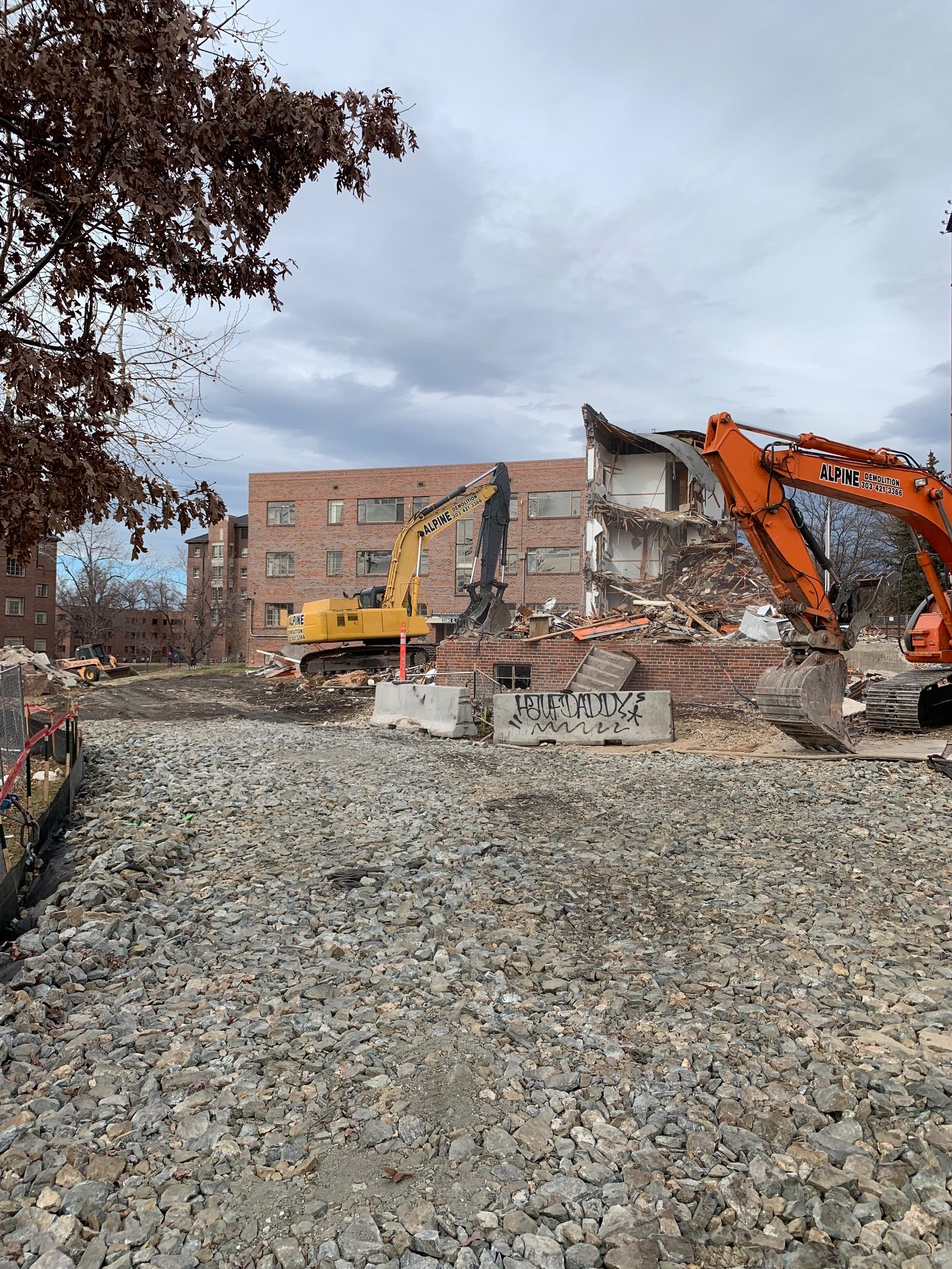
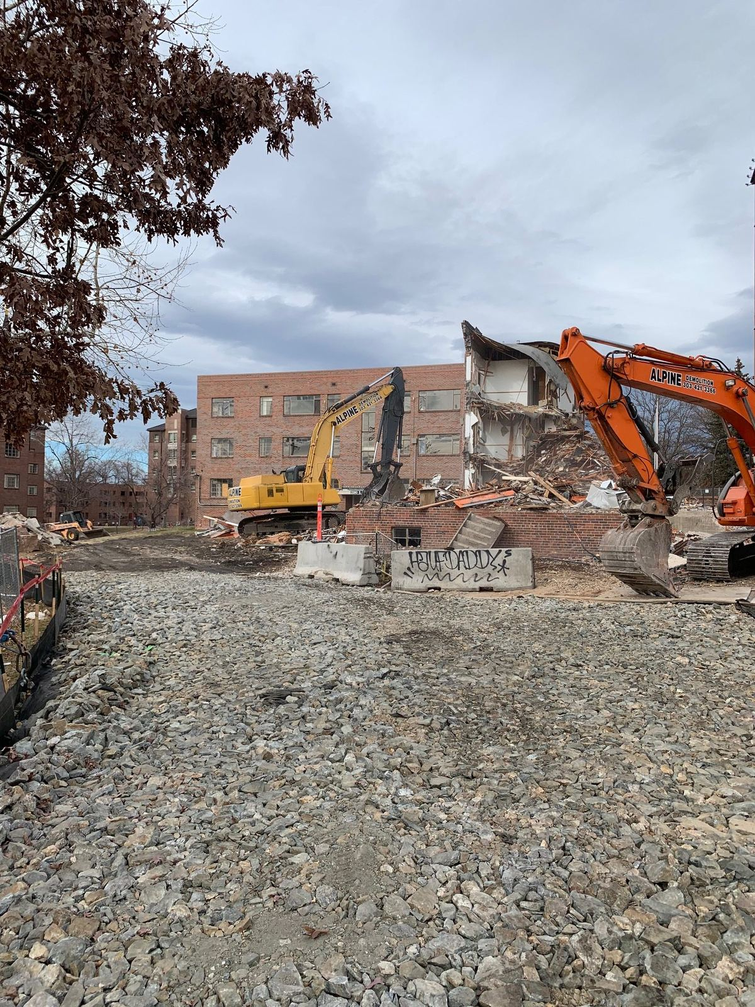
perf: compress portfolio images (3MB→<500KB), fix PNG→JPG paths, eager load

diff --git a/components/PortfolioAccordion.tsx b/components/PortfolioAccordion.tsx
@@ -19,7 +19,7 @@ const projects = [
     location: "Windsor, CO",
     year: "2014",
     scope: "Demolition, Recycling",
-    image: "/images/portfolio/kodak-buildings.png",
+    image: "/images/portfolio/kodak-buildings.jpg",
     desc: "Demolition of the former Kodak plant in Windsor — once one of Kodak's largest film production facilities including X-Ray machine production. The site encompassed over 1,000,000 sq ft of building scope with extensive material recovery and recycling.",
     tags: ["Industrial", "Recycling", "Large Scope"],
   },
@@ -163,7 +163,7 @@ const projects = [
     location: "Denver, CO",
     year: "—",
     scope: "Demolition",
-    image: "/images/portfolio/fire-structure-emerson.png",
+    image: "/images/portfolio/fire-structure-emerson.jpg",
     desc: "Demolition of a fire-damaged vacant construction site structure at 1833 Emerson Street in Denver — emergency demolition and site stabilization following a fire event.",
     tags: ["Disaster Response", "Emergency"],
   },
@@ -237,7 +237,7 @@ export default function PortfolioAccordion() {
                       src={p.image}
                       alt={p.title}
                       fill
-                      className="object-cover"
+                      className="object-cover" loading="eager" priority={false}
                       sizes="(max-width: 1024px) 100vw, 50vw"
                     />
                   </div>
